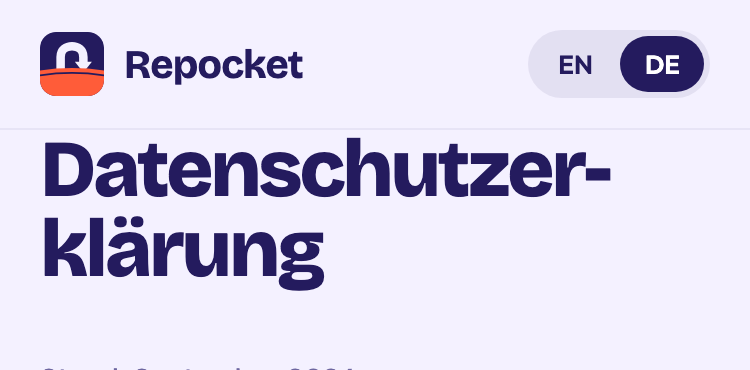
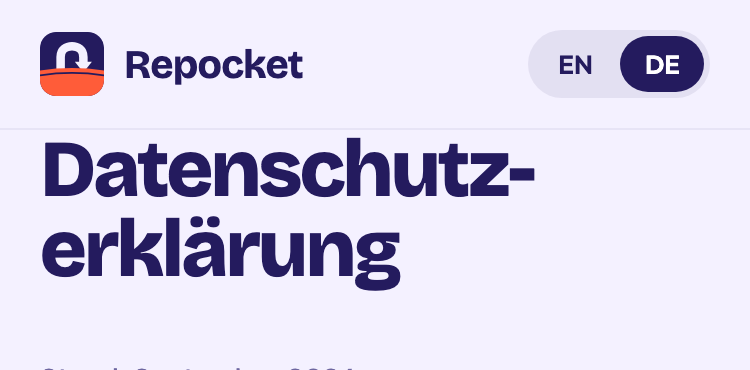
fix(site): use a soft hyphen in the German privacy title and prefix hyphens for iOS Safari [repocket-site-qfc]
Hyphens:auto split the title as Datenschutzer-klärung. The H1 now carries an
explicit &shy; (Datenschutz-erklärung), the phone rule gains -webkit-hyphens,
and hyphens:none above 600px keeps the soft hyphen from wrapping the title on
desktop, so 1280px renders pixel-identical to before.

Bead: repocket-site-qfc

Changed region(s): [[0.0307, 0.5649, 0.552, 0.8027], [0.6747, 0.4162, 0.828, 0.5351]]

diff --git a/privacy.html b/privacy.html
@@ -6,7 +6,7 @@
 @font-face{font-family:"Outfit";font-style:normal;font-weight:600;font-display:swap;src:url("assets/fonts/Outfit-600.woff2") format("woff2")}
 @font-face{font-family:"Outfit";font-style:normal;font-weight:700;font-display:swap;src:url("assets/fonts/Outfit-700.woff2") format("woff2")}
 @font-face{font-family:"Space Mono";font-style:normal;font-weight:700;font-display:swap;src:url("assets/fonts/SpaceMono-700.woff2") format("woff2")}
-:root{--ground:#F4F1FF;--ink:#241B5E;--ink2:#6E67A0;--coral:#FF5C39}*{box-sizing:border-box}body{margin:0;background:var(--ground);color:var(--ink);font:400 18px/1.55 "Outfit",system-ui,sans-serif}a{color:var(--coral);text-decoration:none}a:hover{color:var(--ink)}.wrap{max-width:760px;margin:0 auto;padding:0 clamp(20px,5vw,60px)}nav{border-bottom:1px solid rgba(36,27,94,.06)}nav .wrap{display:flex;align-items:center;gap:18px;min-height:64px}.brand{display:flex;align-items:center;gap:10px;font:700 20px "Bricolage Grotesque",sans-serif;color:var(--ink);letter-spacing:-.02em}.brand img{width:32px;height:32px;border-radius:8px}.lang{margin-left:auto;display:flex;padding:3px;border-radius:999px;background:rgba(36,27,94,.08);gap:2px}.lang button{all:unset;cursor:pointer;padding:6px 12px;border-radius:999px;font:600 13px Outfit,sans-serif;color:var(--ink)}.lang button[aria-pressed="true"]{background:var(--ink);color:#fff}main{padding:60px 0 100px}h1{font:800 clamp(40px,5vw,64px)/1 "Bricolage Grotesque",sans-serif;letter-spacing:-.04em;margin:0 0 30px}@media(max-width:600px){h1{hyphens:auto;overflow-wrap:break-word}}h2{font:700 26px/1.1 "Bricolage Grotesque",sans-serif;letter-spacing:-.02em;margin:40px 0 10px}p{margin:0 0 16px;color:var(--ink2);text-wrap:pretty}p b{color:var(--ink)}ul{color:var(--ink2);padding-left:22px}small{color:var(--ink2)}[data-lang="en"] [data-l="de"],[data-lang="de"] [data-l="en"]{display:none!important}footer{padding:30px 0;border-top:1px solid rgba(36,27,94,.1);font-size:14px;color:var(--ink2)}footer .wrap{display:flex;gap:24px;flex-wrap:wrap;align-items:center}footer a{color:var(--ink2)}.card{background:#fff;border-radius:20px;padding:22px 24px;margin:12px 0}
+:root{--ground:#F4F1FF;--ink:#241B5E;--ink2:#6E67A0;--coral:#FF5C39}*{box-sizing:border-box}body{margin:0;background:var(--ground);color:var(--ink);font:400 18px/1.55 "Outfit",system-ui,sans-serif}a{color:var(--coral);text-decoration:none}a:hover{color:var(--ink)}.wrap{max-width:760px;margin:0 auto;padding:0 clamp(20px,5vw,60px)}nav{border-bottom:1px solid rgba(36,27,94,.06)}nav .wrap{display:flex;align-items:center;gap:18px;min-height:64px}.brand{display:flex;align-items:center;gap:10px;font:700 20px "Bricolage Grotesque",sans-serif;color:var(--ink);letter-spacing:-.02em}.brand img{width:32px;height:32px;border-radius:8px}.lang{margin-left:auto;display:flex;padding:3px;border-radius:999px;background:rgba(36,27,94,.08);gap:2px}.lang button{all:unset;cursor:pointer;padding:6px 12px;border-radius:999px;font:600 13px Outfit,sans-serif;color:var(--ink)}.lang button[aria-pressed="true"]{background:var(--ink);color:#fff}main{padding:60px 0 100px}h1{font:800 clamp(40px,5vw,64px)/1 "Bricolage Grotesque",sans-serif;letter-spacing:-.04em;margin:0 0 30px}h1{-webkit-hyphens:none;hyphens:none}@media(max-width:600px){h1{-webkit-hyphens:auto;hyphens:auto;overflow-wrap:break-word}}h2{font:700 26px/1.1 "Bricolage Grotesque",sans-serif;letter-spacing:-.02em;margin:40px 0 10px}p{margin:0 0 16px;color:var(--ink2);text-wrap:pretty}p b{color:var(--ink)}ul{color:var(--ink2);padding-left:22px}small{color:var(--ink2)}[data-lang="en"] [data-l="de"],[data-lang="de"] [data-l="en"]{display:none!important}footer{padding:30px 0;border-top:1px solid rgba(36,27,94,.1);font-size:14px;color:var(--ink2)}footer .wrap{display:flex;gap:24px;flex-wrap:wrap;align-items:center}footer a{color:var(--ink2)}.card{background:#fff;border-radius:20px;padding:22px 24px;margin:12px 0}
 .mugo-credit{display:inline-flex;align-items:center;gap:10px;color:var(--ink2);font-family:"Space Mono",ui-monospace,SFMono-Regular,Menlo,monospace;font-weight:700;font-size:12px;letter-spacing:.14em;text-transform:uppercase}.mugo-credit:hover{color:var(--ink)}.mugo-credit img{width:20px;height:20px;flex:none}
 .mugo-credit-row{width:100%;display:flex;padding-top:18px;margin-top:6px;border-top:1px solid rgba(36,27,94,.06)}</style></head><body>
 <nav><div class="wrap"><a class="brand" href="index.html"><img src="assets/mark.svg" alt="">Repocket</a><div class="lang" role="group" aria-label="Language"><button data-set="en" aria-pressed="true">EN</button><button data-set="de" aria-pressed="false">DE</button></div></div></nav>
@@ -25,7 +25,7 @@
 <h2>Your rights</h2><p>You have the right to access the personal data we hold about you (Art. 15 GDPR), to have it corrected (Art. 16) or deleted (Art. 17), to restrict its processing (Art. 18), to receive it in a portable format (Art. 20), and to object to processing based on our legitimate interests (Art. 21). Because analytics and crash reports carry no identifier we can link to you, we usually cannot find your records in them; switching analytics off stops new signals. To use any of these rights, email hello@getrepocket.com.</p>
 <p>You also have the right to complain to a data protection authority (Art. 77 GDPR). Ours is the Berliner Beauftragte für Datenschutz und Informationsfreiheit (<a href="https://www.datenschutz-berlin.de">datenschutz-berlin.de</a>).</p>
 <p>We do not use automated decision-making or profiling. You are not required to provide any personal data; the app works without an account, and switching analytics off changes nothing about what you can do.</p>
-<h2>Contact</h2><p>Questions: <a href="mailto:hello@getrepocket.com">hello@getrepocket.com</a>. When you email us, we use your message and address to answer you (Art. 6(1)(f) GDPR, or Art. 6(1)(b) where it concerns your purchase) and delete the conversation when it is resolved, unless the law requires us to keep it.</p></div><div data-l="de"><h1>Datenschutzerklärung</h1><p><small>Stand: September 2026</small></p>
+<h2>Contact</h2><p>Questions: <a href="mailto:hello@getrepocket.com">hello@getrepocket.com</a>. When you email us, we use your message and address to answer you (Art. 6(1)(f) GDPR, or Art. 6(1)(b) where it concerns your purchase) and delete the conversation when it is resolved, unless the law requires us to keep it.</p></div><div data-l="de"><h1>Datenschutz&shy;erklärung</h1><p><small>Stand: September 2026</small></p>
 <p><b>Kurzfassung.</b> Repocket hat kein Konto und keinen eigenen Server. Deine Einträge liegen auf deinem iPhone und, wenn aktiviert, in deiner privaten iCloud, wo wir sie nicht sehen können. Zwei Arten von Daten verlassen dein Gerät: eine anonyme Nutzungsanalyse, die du in den App-Einstellungen abschalten kannst, und Absturz- und Leistungsberichte, mit denen wir Fehler beheben. Keine davon enthält je deine Beträge, Taschennamen oder Notizen.</p>
 <p><b>Verantwortlicher.</b> Verantwortlich für diese App und diese Website im Sinne der DSGVO ist Michel Onwordi (mugoworks), Immanuelkirchstraße 14A, 10405 Berlin, Deutschland, hello@getrepocket.com.</p>
 <h2>Was Repocket speichert</h2><p>Taschennamen, Einträge (Datum, Betrag, zwei Taschennamen, optionale Notiz) und ein paar App-Einstellungen: deine Währung, welche Taschen in der Gratis-Stufe aktiv sind, ob du die Einführung gesehen hast und wann die App zuletzt um eine Bewertung gebeten hat. Dazu das Datum der Erstinstallation (für die 7-tägige Testphase). Sonst nichts. Die unten beschriebenen Nutzungssignale und Absturzberichte werden getrennt gesendet und enthalten nichts davon.</p>

diff --git a/impressum.html b/impressum.html
@@ -6,7 +6,7 @@
 @font-face{font-family:"Outfit";font-style:normal;font-weight:600;font-display:swap;src:url("assets/fonts/Outfit-600.woff2") format("woff2")}
 @font-face{font-family:"Outfit";font-style:normal;font-weight:700;font-display:swap;src:url("assets/fonts/Outfit-700.woff2") format("woff2")}
 @font-face{font-family:"Space Mono";font-style:normal;font-weight:700;font-display:swap;src:url("assets/fonts/SpaceMono-700.woff2") format("woff2")}
-:root{--ground:#F4F1FF;--ink:#241B5E;--ink2:#6E67A0;--coral:#FF5C39}*{box-sizing:border-box}body{margin:0;background:var(--ground);color:var(--ink);font:400 18px/1.55 "Outfit",system-ui,sans-serif}a{color:var(--coral);text-decoration:none}a:hover{color:var(--ink)}.wrap{max-width:760px;margin:0 auto;padding:0 clamp(20px,5vw,60px)}nav{border-bottom:1px solid rgba(36,27,94,.06)}nav .wrap{display:flex;align-items:center;gap:18px;min-height:64px}.brand{display:flex;align-items:center;gap:10px;font:700 20px "Bricolage Grotesque",sans-serif;color:var(--ink);letter-spacing:-.02em}.brand img{width:32px;height:32px;border-radius:8px}.lang{margin-left:auto;display:flex;padding:3px;border-radius:999px;background:rgba(36,27,94,.08);gap:2px}.lang button{all:unset;cursor:pointer;padding:6px 12px;border-radius:999px;font:600 13px Outfit,sans-serif;color:var(--ink)}.lang button[aria-pressed="true"]{background:var(--ink);color:#fff}main{padding:60px 0 100px}h1{font:800 clamp(40px,5vw,64px)/1 "Bricolage Grotesque",sans-serif;letter-spacing:-.04em;margin:0 0 30px}@media(max-width:600px){h1{hyphens:auto;overflow-wrap:break-word}}h2{font:700 26px/1.1 "Bricolage Grotesque",sans-serif;letter-spacing:-.02em;margin:40px 0 10px}p{margin:0 0 16px;color:var(--ink2);text-wrap:pretty}p b{color:var(--ink)}ul{color:var(--ink2);padding-left:22px}small{color:var(--ink2)}[data-lang="en"] [data-l="de"],[data-lang="de"] [data-l="en"]{display:none!important}footer{padding:30px 0;border-top:1px solid rgba(36,27,94,.1);font-size:14px;color:var(--ink2)}footer .wrap{display:flex;gap:24px;flex-wrap:wrap;align-items:center}footer a{color:var(--ink2)}.card{background:#fff;border-radius:20px;padding:22px 24px;margin:12px 0}
+:root{--ground:#F4F1FF;--ink:#241B5E;--ink2:#6E67A0;--coral:#FF5C39}*{box-sizing:border-box}body{margin:0;background:var(--ground);color:var(--ink);font:400 18px/1.55 "Outfit",system-ui,sans-serif}a{color:var(--coral);text-decoration:none}a:hover{color:var(--ink)}.wrap{max-width:760px;margin:0 auto;padding:0 clamp(20px,5vw,60px)}nav{border-bottom:1px solid rgba(36,27,94,.06)}nav .wrap{display:flex;align-items:center;gap:18px;min-height:64px}.brand{display:flex;align-items:center;gap:10px;font:700 20px "Bricolage Grotesque",sans-serif;color:var(--ink);letter-spacing:-.02em}.brand img{width:32px;height:32px;border-radius:8px}.lang{margin-left:auto;display:flex;padding:3px;border-radius:999px;background:rgba(36,27,94,.08);gap:2px}.lang button{all:unset;cursor:pointer;padding:6px 12px;border-radius:999px;font:600 13px Outfit,sans-serif;color:var(--ink)}.lang button[aria-pressed="true"]{background:var(--ink);color:#fff}main{padding:60px 0 100px}h1{font:800 clamp(40px,5vw,64px)/1 "Bricolage Grotesque",sans-serif;letter-spacing:-.04em;margin:0 0 30px}h1{-webkit-hyphens:none;hyphens:none}@media(max-width:600px){h1{-webkit-hyphens:auto;hyphens:auto;overflow-wrap:break-word}}h2{font:700 26px/1.1 "Bricolage Grotesque",sans-serif;letter-spacing:-.02em;margin:40px 0 10px}p{margin:0 0 16px;color:var(--ink2);text-wrap:pretty}p b{color:var(--ink)}ul{color:var(--ink2);padding-left:22px}small{color:var(--ink2)}[data-lang="en"] [data-l="de"],[data-lang="de"] [data-l="en"]{display:none!important}footer{padding:30px 0;border-top:1px solid rgba(36,27,94,.1);font-size:14px;color:var(--ink2)}footer .wrap{display:flex;gap:24px;flex-wrap:wrap;align-items:center}footer a{color:var(--ink2)}.card{background:#fff;border-radius:20px;padding:22px 24px;margin:12px 0}
 .mugo-credit{display:inline-flex;align-items:center;gap:10px;color:var(--ink2);font-family:"Space Mono",ui-monospace,SFMono-Regular,Menlo,monospace;font-weight:700;font-size:12px;letter-spacing:.14em;text-transform:uppercase}.mugo-credit:hover{color:var(--ink)}.mugo-credit img{width:20px;height:20px;flex:none}
 .mugo-credit-row{width:100%;display:flex;padding-top:18px;margin-top:6px;border-top:1px solid rgba(36,27,94,.06)}</style></head><body>
 <nav><div class="wrap"><a class="brand" href="index.html"><img src="assets/mark.svg" alt="">Repocket</a><div class="lang" role="group" aria-label="Language"><button data-set="en" aria-pressed="true">EN</button><button data-set="de" aria-pressed="false">DE</button></div></div></nav>

diff --git a/press.html b/press.html
@@ -6,7 +6,7 @@
 @font-face{font-family:"Outfit";font-style:normal;font-weight:600;font-display:swap;src:url("assets/fonts/Outfit-600.woff2") format("woff2")}
 @font-face{font-family:"Outfit";font-style:normal;font-weight:700;font-display:swap;src:url("assets/fonts/Outfit-700.woff2") format("woff2")}
 @font-face{font-family:"Space Mono";font-style:normal;font-weight:700;font-display:swap;src:url("assets/fonts/SpaceMono-700.woff2") format("woff2")}
-:root{--ground:#F4F1FF;--ink:#241B5E;--ink2:#6E67A0;--coral:#FF5C39}*{box-sizing:border-box}body{margin:0;background:var(--ground);color:var(--ink);font:400 18px/1.55 "Outfit",system-ui,sans-serif}a{color:var(--coral);text-decoration:none}a:hover{color:var(--ink)}.wrap{max-width:760px;margin:0 auto;padding:0 clamp(20px,5vw,60px)}nav{border-bottom:1px solid rgba(36,27,94,.06)}nav .wrap{display:flex;align-items:center;gap:18px;min-height:64px}.brand{display:flex;align-items:center;gap:10px;font:700 20px "Bricolage Grotesque",sans-serif;color:var(--ink);letter-spacing:-.02em}.brand img{width:32px;height:32px;border-radius:8px}.lang{margin-left:auto;display:flex;padding:3px;border-radius:999px;background:rgba(36,27,94,.08);gap:2px}.lang button{all:unset;cursor:pointer;padding:6px 12px;border-radius:999px;font:600 13px Outfit,sans-serif;color:var(--ink)}.lang button[aria-pressed="true"]{background:var(--ink);color:#fff}main{padding:60px 0 100px}h1{font:800 clamp(40px,5vw,64px)/1 "Bricolage Grotesque",sans-serif;letter-spacing:-.04em;margin:0 0 30px}@media(max-width:600px){h1{hyphens:auto;overflow-wrap:break-word}}h2{font:700 26px/1.1 "Bricolage Grotesque",sans-serif;letter-spacing:-.02em;margin:40px 0 10px}p{margin:0 0 16px;color:var(--ink2);text-wrap:pretty}p b{color:var(--ink)}ul{color:var(--ink2);padding-left:22px}small{color:var(--ink2)}[data-lang="en"] [data-l="de"],[data-lang="de"] [data-l="en"]{display:none!important}footer{padding:30px 0;border-top:1px solid rgba(36,27,94,.1);font-size:14px;color:var(--ink2)}footer .wrap{display:flex;gap:24px;flex-wrap:wrap;align-items:center}footer a{color:var(--ink2)}.card{background:#fff;border-radius:20px;padding:22px 24px;margin:12px 0}
+:root{--ground:#F4F1FF;--ink:#241B5E;--ink2:#6E67A0;--coral:#FF5C39}*{box-sizing:border-box}body{margin:0;background:var(--ground);color:var(--ink);font:400 18px/1.55 "Outfit",system-ui,sans-serif}a{color:var(--coral);text-decoration:none}a:hover{color:var(--ink)}.wrap{max-width:760px;margin:0 auto;padding:0 clamp(20px,5vw,60px)}nav{border-bottom:1px solid rgba(36,27,94,.06)}nav .wrap{display:flex;align-items:center;gap:18px;min-height:64px}.brand{display:flex;align-items:center;gap:10px;font:700 20px "Bricolage Grotesque",sans-serif;color:var(--ink);letter-spacing:-.02em}.brand img{width:32px;height:32px;border-radius:8px}.lang{margin-left:auto;display:flex;padding:3px;border-radius:999px;background:rgba(36,27,94,.08);gap:2px}.lang button{all:unset;cursor:pointer;padding:6px 12px;border-radius:999px;font:600 13px Outfit,sans-serif;color:var(--ink)}.lang button[aria-pressed="true"]{background:var(--ink);color:#fff}main{padding:60px 0 100px}h1{font:800 clamp(40px,5vw,64px)/1 "Bricolage Grotesque",sans-serif;letter-spacing:-.04em;margin:0 0 30px}h1{-webkit-hyphens:none;hyphens:none}@media(max-width:600px){h1{-webkit-hyphens:auto;hyphens:auto;overflow-wrap:break-word}}h2{font:700 26px/1.1 "Bricolage Grotesque",sans-serif;letter-spacing:-.02em;margin:40px 0 10px}p{margin:0 0 16px;color:var(--ink2);text-wrap:pretty}p b{color:var(--ink)}ul{color:var(--ink2);padding-left:22px}small{color:var(--ink2)}[data-lang="en"] [data-l="de"],[data-lang="de"] [data-l="en"]{display:none!important}footer{padding:30px 0;border-top:1px solid rgba(36,27,94,.1);font-size:14px;color:var(--ink2)}footer .wrap{display:flex;gap:24px;flex-wrap:wrap;align-items:center}footer a{color:var(--ink2)}.card{background:#fff;border-radius:20px;padding:22px 24px;margin:12px 0}
 .mugo-credit{display:inline-flex;align-items:center;gap:10px;color:var(--ink2);font-family:"Space Mono",ui-monospace,SFMono-Regular,Menlo,monospace;font-weight:700;font-size:12px;letter-spacing:.14em;text-transform:uppercase}.mugo-credit:hover{color:var(--ink)}.mugo-credit img{width:20px;height:20px;flex:none}
 .mugo-credit-row{width:100%;display:flex;padding-top:18px;margin-top:6px;border-top:1px solid rgba(36,27,94,.06)}</style></head><body>
 <nav><div class="wrap"><a class="brand" href="index.html"><img src="assets/mark.svg" alt="">Repocket</a><div class="lang" role="group" aria-label="Language"><button data-set="en" aria-pressed="true">EN</button><button data-set="de" aria-pressed="false">DE</button></div></div></nav>

diff --git a/support.html b/support.html
@@ -6,7 +6,7 @@
 @font-face{font-family:"Outfit";font-style:normal;font-weight:600;font-display:swap;src:url("assets/fonts/Outfit-600.woff2") format("woff2")}
 @font-face{font-family:"Outfit";font-style:normal;font-weight:700;font-display:swap;src:url("assets/fonts/Outfit-700.woff2") format("woff2")}
 @font-face{font-family:"Space Mono";font-style:normal;font-weight:700;font-display:swap;src:url("assets/fonts/SpaceMono-700.woff2") format("woff2")}
-:root{--ground:#F4F1FF;--ink:#241B5E;--ink2:#6E67A0;--coral:#FF5C39}*{box-sizing:border-box}body{margin:0;background:var(--ground);color:var(--ink);font:400 18px/1.55 "Outfit",system-ui,sans-serif}a{color:var(--coral);text-decoration:none}a:hover{color:var(--ink)}.wrap{max-width:760px;margin:0 auto;padding:0 clamp(20px,5vw,60px)}nav{border-bottom:1px solid rgba(36,27,94,.06)}nav .wrap{display:flex;align-items:center;gap:18px;min-height:64px}.brand{display:flex;align-items:center;gap:10px;font:700 20px "Bricolage Grotesque",sans-serif;color:var(--ink);letter-spacing:-.02em}.brand img{width:32px;height:32px;border-radius:8px}.lang{margin-left:auto;display:flex;padding:3px;border-radius:999px;background:rgba(36,27,94,.08);gap:2px}.lang button{all:unset;cursor:pointer;padding:6px 12px;border-radius:999px;font:600 13px Outfit,sans-serif;color:var(--ink)}.lang button[aria-pressed="true"]{background:var(--ink);color:#fff}main{padding:60px 0 100px}h1{font:800 clamp(40px,5vw,64px)/1 "Bricolage Grotesque",sans-serif;letter-spacing:-.04em;margin:0 0 30px}@media(max-width:600px){h1{hyphens:auto;overflow-wrap:break-word}}h2{font:700 26px/1.1 "Bricolage Grotesque",sans-serif;letter-spacing:-.02em;margin:40px 0 10px}p{margin:0 0 16px;color:var(--ink2);text-wrap:pretty}p b{color:var(--ink)}ul{color:var(--ink2);padding-left:22px}small{color:var(--ink2)}[data-lang="en"] [data-l="de"],[data-lang="de"] [data-l="en"]{display:none!important}footer{padding:30px 0;border-top:1px solid rgba(36,27,94,.1);font-size:14px;color:var(--ink2)}footer .wrap{display:flex;gap:24px;flex-wrap:wrap;align-items:center}footer a{color:var(--ink2)}.card{background:#fff;border-radius:20px;padding:22px 24px;margin:12px 0}
+:root{--ground:#F4F1FF;--ink:#241B5E;--ink2:#6E67A0;--coral:#FF5C39}*{box-sizing:border-box}body{margin:0;background:var(--ground);color:var(--ink);font:400 18px/1.55 "Outfit",system-ui,sans-serif}a{color:var(--coral);text-decoration:none}a:hover{color:var(--ink)}.wrap{max-width:760px;margin:0 auto;padding:0 clamp(20px,5vw,60px)}nav{border-bottom:1px solid rgba(36,27,94,.06)}nav .wrap{display:flex;align-items:center;gap:18px;min-height:64px}.brand{display:flex;align-items:center;gap:10px;font:700 20px "Bricolage Grotesque",sans-serif;color:var(--ink);letter-spacing:-.02em}.brand img{width:32px;height:32px;border-radius:8px}.lang{margin-left:auto;display:flex;padding:3px;border-radius:999px;background:rgba(36,27,94,.08);gap:2px}.lang button{all:unset;cursor:pointer;padding:6px 12px;border-radius:999px;font:600 13px Outfit,sans-serif;color:var(--ink)}.lang button[aria-pressed="true"]{background:var(--ink);color:#fff}main{padding:60px 0 100px}h1{font:800 clamp(40px,5vw,64px)/1 "Bricolage Grotesque",sans-serif;letter-spacing:-.04em;margin:0 0 30px}h1{-webkit-hyphens:none;hyphens:none}@media(max-width:600px){h1{-webkit-hyphens:auto;hyphens:auto;overflow-wrap:break-word}}h2{font:700 26px/1.1 "Bricolage Grotesque",sans-serif;letter-spacing:-.02em;margin:40px 0 10px}p{margin:0 0 16px;color:var(--ink2);text-wrap:pretty}p b{color:var(--ink)}ul{color:var(--ink2);padding-left:22px}small{color:var(--ink2)}[data-lang="en"] [data-l="de"],[data-lang="de"] [data-l="en"]{display:none!important}footer{padding:30px 0;border-top:1px solid rgba(36,27,94,.1);font-size:14px;color:var(--ink2)}footer .wrap{display:flex;gap:24px;flex-wrap:wrap;align-items:center}footer a{color:var(--ink2)}.card{background:#fff;border-radius:20px;padding:22px 24px;margin:12px 0}
 .mugo-credit{display:inline-flex;align-items:center;gap:10px;color:var(--ink2);font-family:"Space Mono",ui-monospace,SFMono-Regular,Menlo,monospace;font-weight:700;font-size:12px;letter-spacing:.14em;text-transform:uppercase}.mugo-credit:hover{color:var(--ink)}.mugo-credit img{width:20px;height:20px;flex:none}
 .mugo-credit-row{width:100%;display:flex;padding-top:18px;margin-top:6px;border-top:1px solid rgba(36,27,94,.06)}</style></head><body>
 <nav><div class="wrap"><a class="brand" href="index.html"><img src="assets/mark.svg" alt="">Repocket</a><div class="lang" role="group" aria-label="Language"><button data-set="en" aria-pressed="true">EN</button><button data-set="de" aria-pressed="false">DE</button></div></div></nav>

diff --git a/index.html b/index.html
@@ -30,7 +30,7 @@
 *{box-sizing:border-box}html{scroll-behavior:smooth}body{margin:0;background:var(--ground);color:var(--ink);font:400 18px/1.5 var(--text);-webkit-font-smoothing:antialiased}
 a{color:var(--coral);text-decoration:none}a:hover{color:var(--ink)}
 h1,h2,h3{font-family:var(--display);font-weight:700;letter-spacing:-.035em;line-height:1;margin:0;text-wrap:balance}
-h1{font-size:clamp(44px,6.4vw,92px);font-weight:800;letter-spacing:-.045em}@media(max-width:600px){h1{hyphens:auto;overflow-wrap:break-word}}h2{font-size:clamp(34px,4.2vw,60px)}h3{font-size:26px;letter-spacing:-.02em}
+h1{font-size:clamp(44px,6.4vw,92px);font-weight:800;letter-spacing:-.045em}h1{-webkit-hyphens:none;hyphens:none}@media(max-width:600px){h1{-webkit-hyphens:auto;hyphens:auto;overflow-wrap:break-word}}h2{font-size:clamp(34px,4.2vw,60px)}h3{font-size:26px;letter-spacing:-.02em}
 p{margin:0;text-wrap:pretty}.lead{font-size:clamp(18px,1.5vw,22px);color:var(--ink2)}
 .wrap{max-width:1180px;margin:0 auto;padding:0 clamp(20px,5vw,60px)}
 [data-lang="en"] [data-l="de"],[data-lang="de"] [data-l="en"]{display:none!important}
